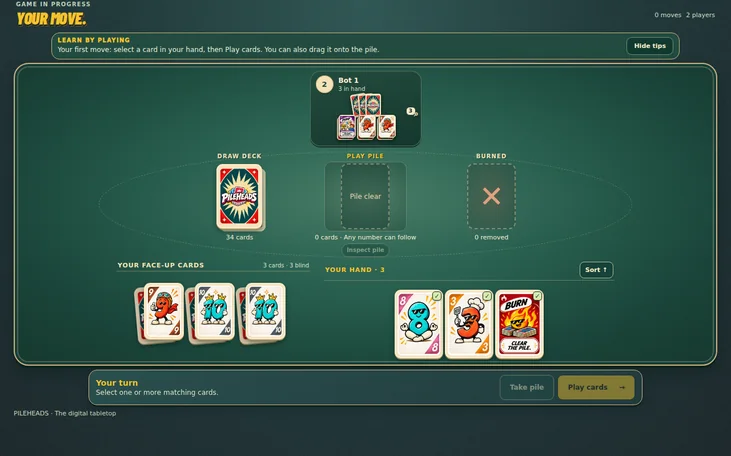
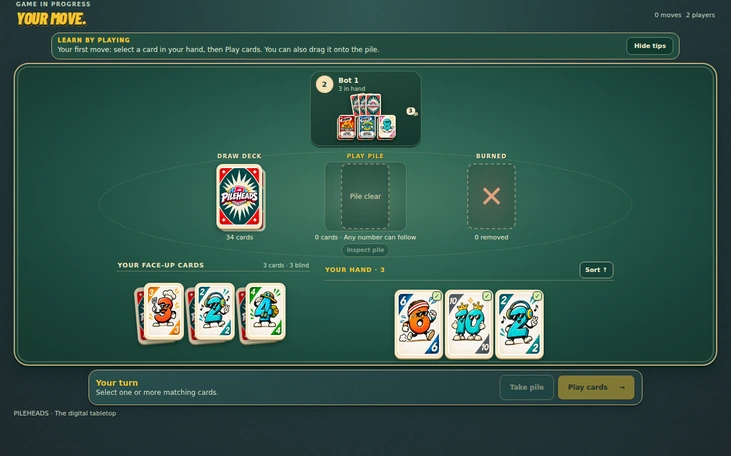
Refresh genuine gameplay captures with V8 card back

diff --git a/docs/pilehead-illustrated-deck.md b/docs/pilehead-illustrated-deck.md
@@ -12,9 +12,9 @@ The current illustrated deck uses the 16 card faces approved on 2026-11-26. The 
 - `apps/web/scripts/sync-assets.mjs`: copies the canonical simulator assets into the Next frontend.
 - `tests/pilehead-raster-assets.cjs`: pinned hashes of the five updated exports and slot mapping checks.
 
-V7 supplies the default/compact simulator themes (hands, opponents, piles, drag and travel animations), the gallery, print preview, lobby, landing-page card fans and illustrated rules. Gameplay screenshots (desktop, wide and mobile) are actual V7 browser acceptance captures from run 45878348885, cropped to omit the old header label and optimized for the web. Packaging/mascot illustrations are separate artwork.
+V7 supplies the default/compact simulator themes (hands, opponents, piles, drag and travel animations), the gallery, print preview, lobby, landing-page card fans and illustrated rules. Gameplay screenshots (desktop, wide and mobile) are actual browser acceptance captures with V7 faces and V8 card back from run 45891297629, cropped to omit the old header label and optimized for the web. Packaging/mascot illustrations are separate artwork.
 
 Run `npm run test:pilehead-art`, `npm run build`, and the browser acceptance suite. Review the live homepage, /play, /pilehead/gallery.html, and /pilehead/print.html. Use the individual full-resolution masters for commercial print preparation, not web sprites.
 
 ## V8 card back (2026-11-26)
-Canonical master: [PILEHEADS_BACK_white_border_v8.png](https://drive.google.com/file/d/12dM4rh7gm6YcA9M98dtbwoyVG106WedP/view) (1071 × 1496). Website exports: 440 × 615 and 300 × 419. The pure-white logo lettering and white outer border are preserved. Existing gameplay screenshots and embedded illustrations require separate visual refreshes; they are not updated by replacing runtime textures.
+Canonical master: [PILEHEADS_BACK_white_border_v8.png](https://drive.google.com/file/d/12dM4rh7gm6YcA9M98dtbwoyVG106WedP/view) (1071 × 1496). Website exports: 440 × 615 and 300 × 419. The pure-white logo lettering and white outer border are preserved. Homepage gameplay screenshots were replaced with genuine V8 browser acceptance captures from run 45891297629, preserving their previous dimensions. Embedded illustrations require separate visual refreshes.
